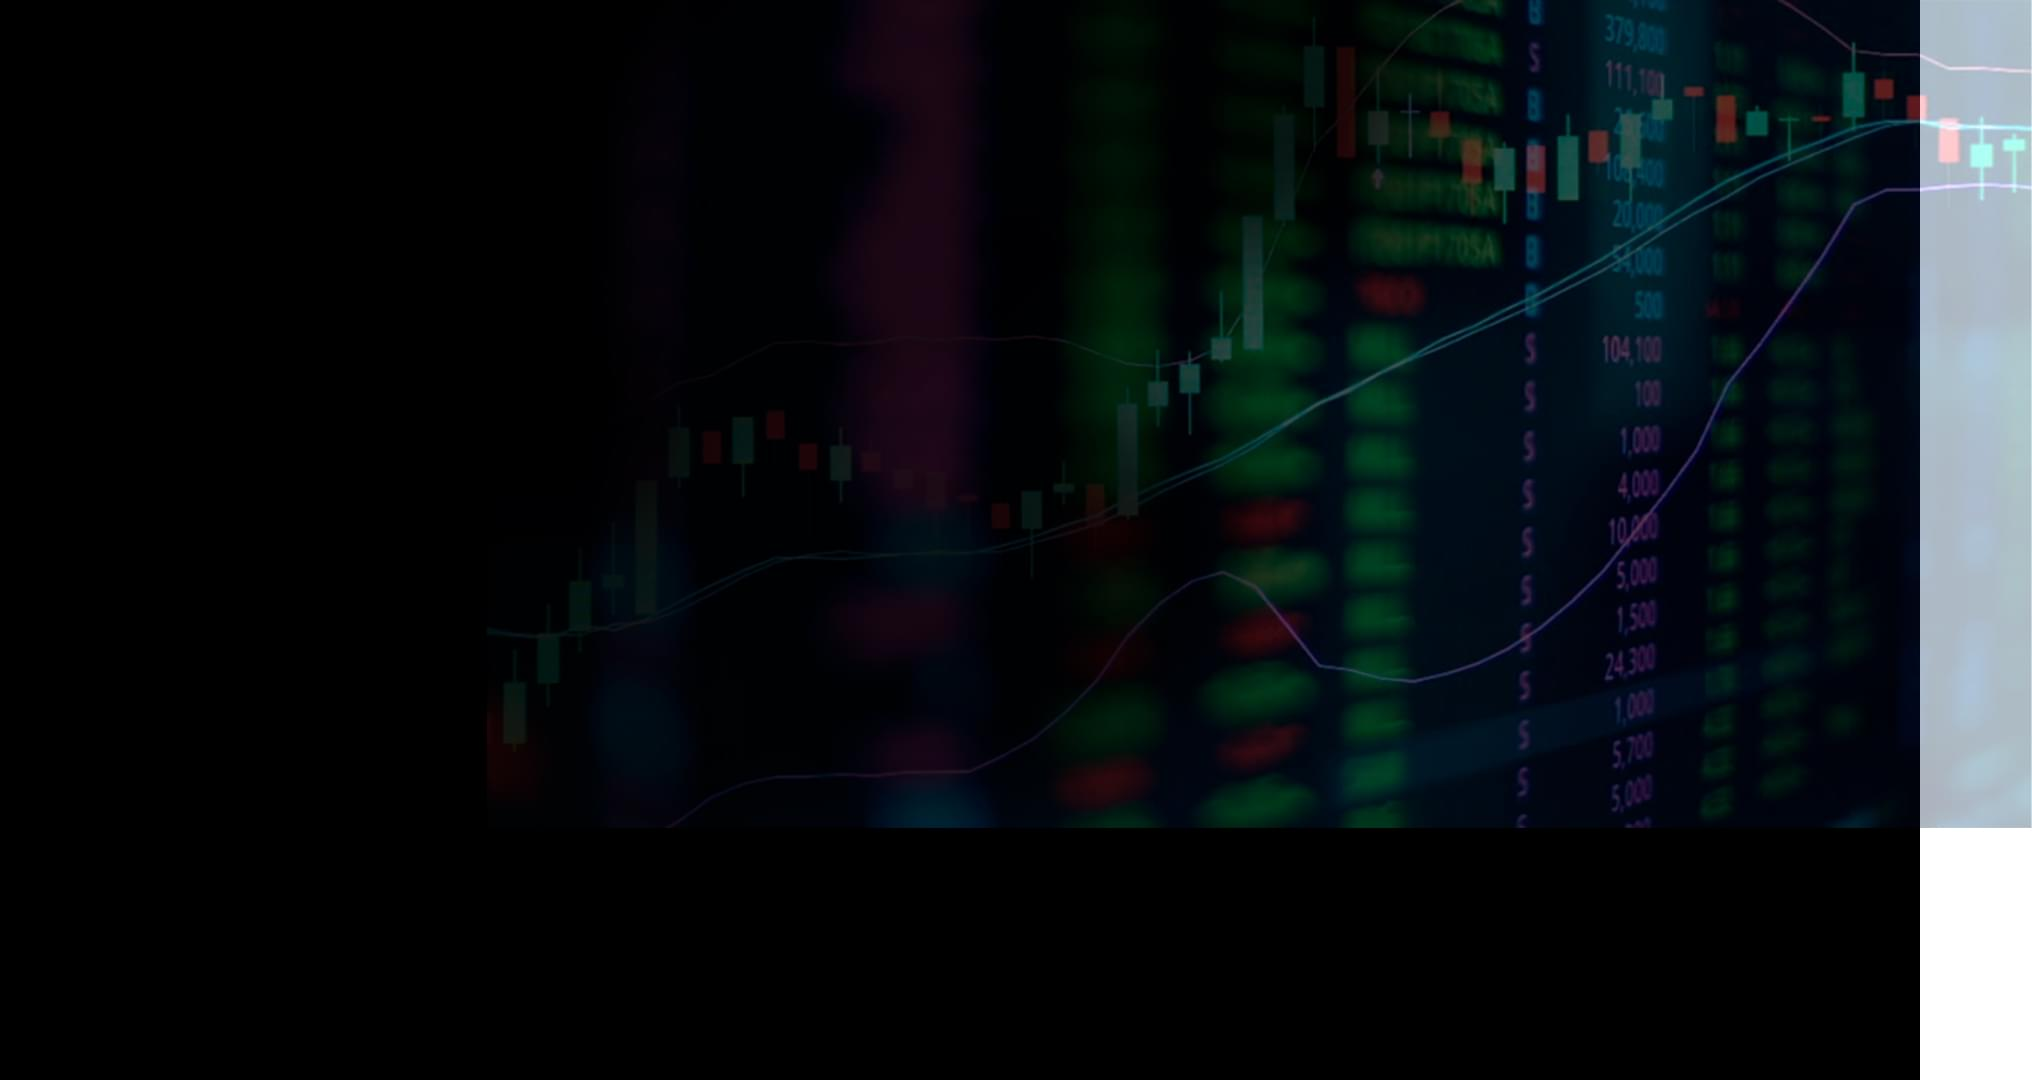
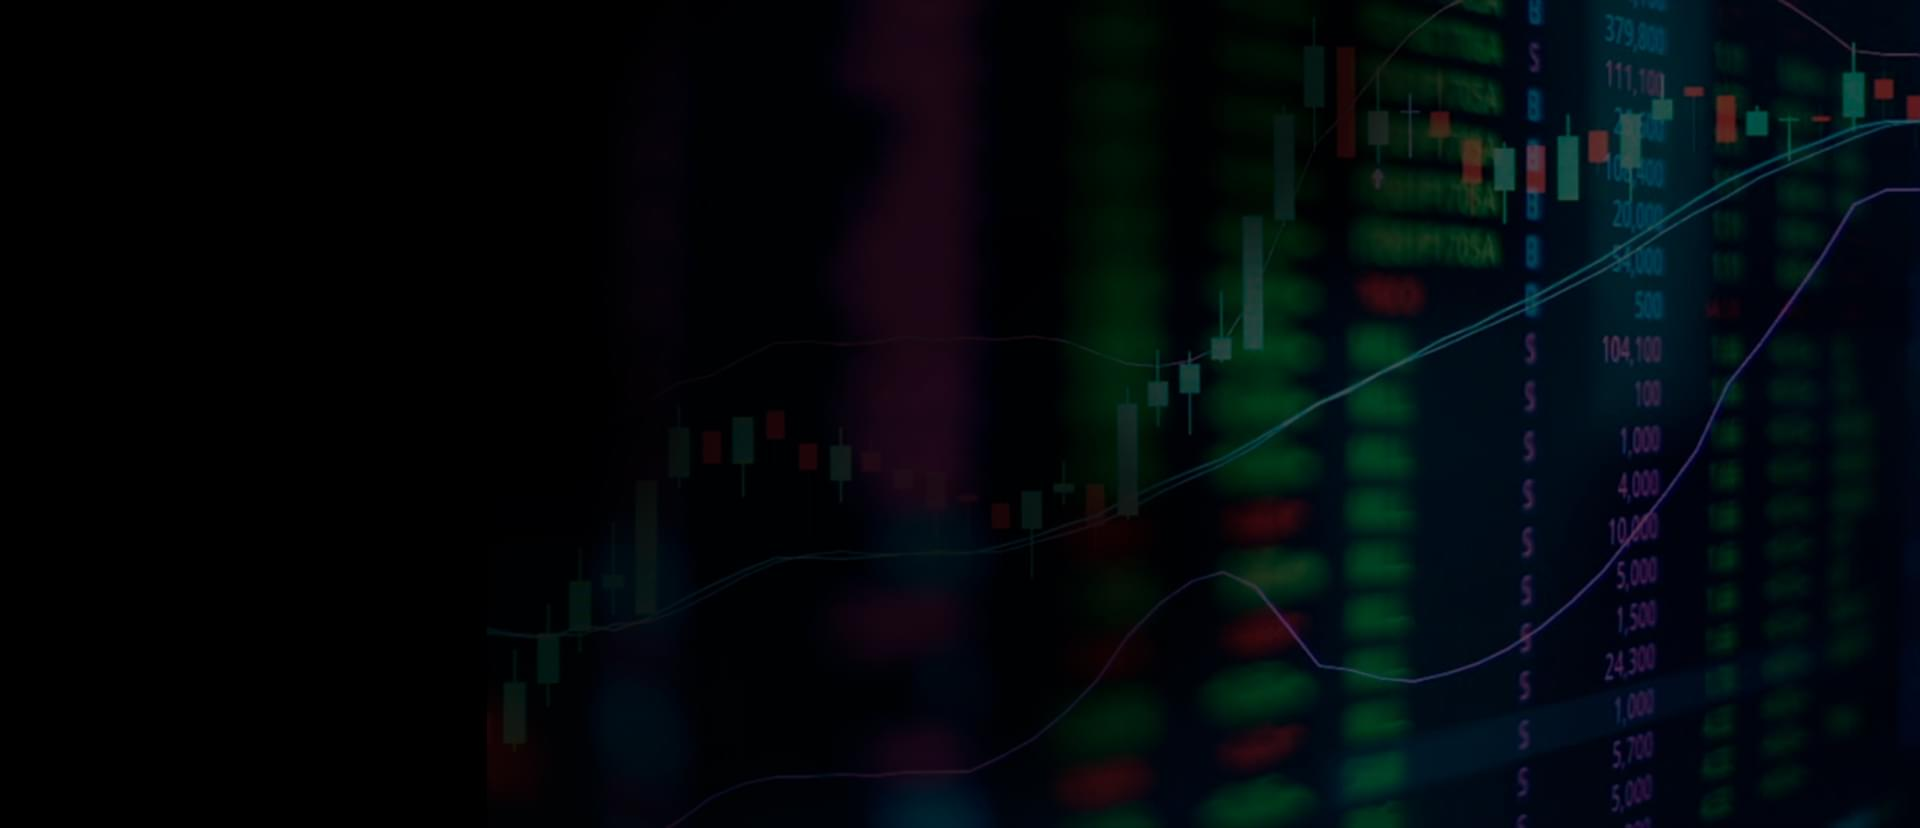
Верстка первого экрана

diff --git a/app/css/app.min.css b/app/css/app.min.css
@@ -1,1 +1,1 @@
-*,::after,::before{-webkit-box-sizing:border-box;box-sizing:border-box}html{font-family:sans-serif;line-height:1.15;-webkit-text-size-adjust:100%;-webkit-tap-highlight-color:transparent}article,aside,figcaption,figure,footer,header,hgroup,main,nav,section{display:block}body{margin:0;font-family:-apple-system,BlinkMacSystemFont,"Segoe UI",Roboto,"Helvetica Neue",Arial,"Noto Sans",sans-serif,"Apple Color Emoji","Segoe UI Emoji","Segoe UI Symbol","Noto Color Emoji";font-size:1rem;font-weight:400;line-height:1.5;color:#212529;text-align:left;background-color:#fff}[tabindex="-1"]:focus:not(:focus-visible){outline:0!important}hr{-webkit-box-sizing:content-box;box-sizing:content-box;height:0;overflow:visible}h1,h2,h3,h4,h5,h6{margin-top:0;margin-bottom:.5rem}p{margin-top:0;margin-bottom:1rem}abbr[data-original-title],abbr[title]{text-decoration:underline;-webkit-text-decoration:underline dotted;text-decoration:underline dotted;cursor:help;border-bottom:0;-webkit-text-decoration-skip-ink:none;text-decoration-skip-ink:none}address{margin-bottom:1rem;font-style:normal;line-height:inherit}dl,ol,ul{margin-top:0;margin-bottom:1rem}ol ol,ol ul,ul ol,ul ul{margin-bottom:0}dt{font-weight:700}dd{margin-bottom:.5rem;margin-left:0}blockquote{margin:0 0 1rem}b,strong{font-weight:bolder}small{font-size:80%}sub,sup{position:relative;font-size:75%;line-height:0;vertical-align:baseline}sub{bottom:-.25em}sup{top:-.5em}a{color:#007bff;text-decoration:none;background-color:transparent}a:hover{color:#0056b3;text-decoration:underline}a:not([href]):not([class]){color:inherit;text-decoration:none}a:not([href]):not([class]):hover{color:inherit;text-decoration:none}code,kbd,pre,samp{font-family:SFMono-Regular,Menlo,Monaco,Consolas,"Liberation Mono","Courier New",monospace;font-size:1em}pre{margin-top:0;margin-bottom:1rem;overflow:auto;-ms-overflow-style:scrollbar}figure{margin:0 0 1rem}img{vertical-align:middle;border-style:none}svg{overflow:hidden;vertical-align:middle}table{border-collapse:collapse}caption{padding-top:.75rem;padding-bottom:.75rem;color:#6c757d;text-align:left;caption-side:bottom}th{text-align:inherit;text-align:-webkit-match-parent}label{display:inline-block;margin-bottom:.5rem}button{border-radius:0}button:focus{outline:1px dotted;outline:5px auto -webkit-focus-ring-color}button,input,optgroup,select,textarea{margin:0;font-family:inherit;font-size:inherit;line-height:inherit}button,input{overflow:visible}button,select{text-transform:none}[role=button]{cursor:pointer}select{word-wrap:normal}[type=button],[type=reset],[type=submit],button{-webkit-appearance:button}[type=button]:not(:disabled),[type=reset]:not(:disabled),[type=submit]:not(:disabled),button:not(:disabled){cursor:pointer}[type=button]::-moz-focus-inner,[type=reset]::-moz-focus-inner,[type=submit]::-moz-focus-inner,button::-moz-focus-inner{padding:0;border-style:none}input[type=checkbox],input[type=radio]{-webkit-box-sizing:border-box;box-sizing:border-box;padding:0}textarea{overflow:auto;resize:vertical}fieldset{min-width:0;padding:0;margin:0;border:0}legend{display:block;width:100%;max-width:100%;padding:0;margin-bottom:.5rem;font-size:1.5rem;line-height:inherit;color:inherit;white-space:normal}progress{vertical-align:baseline}[type=number]::-webkit-inner-spin-button,[type=number]::-webkit-outer-spin-button{height:auto}[type=search]{outline-offset:-2px;-webkit-appearance:none}[type=search]::-webkit-search-decoration{-webkit-appearance:none}::-webkit-file-upload-button{font:inherit;-webkit-appearance:button}output{display:inline-block}summary{display:list-item;cursor:pointer}template{display:none}[hidden]{display:none!important}@font-face{font-family:gilroy;font-style:normal;font-weight:400;src:url(../fonts/Gilroy-Regular.woff2) format("woff2")}@font-face{font-family:gilroy-bold;font-style:normal;font-weight:700;src:url(../fonts/Gilroy-Bold.woff2) format("woff2")}@font-face{font-family:gilroy;font-style:normal;font-weight:800;src:url(../fonts/Gilroy-ExtraBold.woff2) format("woff2")}@font-face{font-family:gilroy;font-style:normal;font-weight:900;src:url(../fonts/Gilroy-Black.woff2) format("woff2")}::-webkit-input-placeholder{color:#666}::-moz-placeholder{color:#666}:-ms-input-placeholder{color:#666}::-ms-input-placeholder{color:#666}::placeholder{color:#666}::-moz-selection{background-color:#ffc600;color:#fff}::selection{background-color:#ffc600;color:#fff}input,textarea{outline:0}input:focus:required:invalid,textarea:focus:required:invalid{border-color:red}input:required:valid,textarea:required:valid{border-color:green}body{font-size:16px;min-width:320px;position:relative;line-height:1.65;font-family:gilroy,sans-serif;overflow-x:hidden;color:#fff}.container{max-width:1140px;margin:0 auto}
+*,::after,::before{-webkit-box-sizing:border-box;box-sizing:border-box}html{font-family:sans-serif;line-height:1.15;-webkit-text-size-adjust:100%;-webkit-tap-highlight-color:transparent}article,aside,figcaption,figure,footer,header,hgroup,main,nav,section{display:block}body{margin:0;font-family:-apple-system,BlinkMacSystemFont,"Segoe UI",Roboto,"Helvetica Neue",Arial,"Noto Sans",sans-serif,"Apple Color Emoji","Segoe UI Emoji","Segoe UI Symbol","Noto Color Emoji";font-size:1rem;font-weight:400;line-height:1.5;color:#212529;text-align:left;background-color:#fff}[tabindex="-1"]:focus:not(:focus-visible){outline:0!important}hr{-webkit-box-sizing:content-box;box-sizing:content-box;height:0;overflow:visible}h1,h2,h3,h4,h5,h6{margin-top:0;margin-bottom:.5rem}p{margin-top:0;margin-bottom:1rem}abbr[data-original-title],abbr[title]{text-decoration:underline;-webkit-text-decoration:underline dotted;text-decoration:underline dotted;cursor:help;border-bottom:0;-webkit-text-decoration-skip-ink:none;text-decoration-skip-ink:none}address{margin-bottom:1rem;font-style:normal;line-height:inherit}dl,ol,ul{margin-top:0;margin-bottom:1rem}ol ol,ol ul,ul ol,ul ul{margin-bottom:0}dt{font-weight:700}dd{margin-bottom:.5rem;margin-left:0}blockquote{margin:0 0 1rem}b,strong{font-weight:bolder}small{font-size:80%}sub,sup{position:relative;font-size:75%;line-height:0;vertical-align:baseline}sub{bottom:-.25em}sup{top:-.5em}a{color:#007bff;text-decoration:none;background-color:transparent}a:hover{color:#0056b3;text-decoration:underline}a:not([href]):not([class]){color:inherit;text-decoration:none}a:not([href]):not([class]):hover{color:inherit;text-decoration:none}code,kbd,pre,samp{font-family:SFMono-Regular,Menlo,Monaco,Consolas,"Liberation Mono","Courier New",monospace;font-size:1em}pre{margin-top:0;margin-bottom:1rem;overflow:auto;-ms-overflow-style:scrollbar}figure{margin:0 0 1rem}img{vertical-align:middle;border-style:none}svg{overflow:hidden;vertical-align:middle}table{border-collapse:collapse}caption{padding-top:.75rem;padding-bottom:.75rem;color:#6c757d;text-align:left;caption-side:bottom}th{text-align:inherit;text-align:-webkit-match-parent}label{display:inline-block;margin-bottom:.5rem}button{border-radius:0}button:focus{outline:1px dotted;outline:5px auto -webkit-focus-ring-color}button,input,optgroup,select,textarea{margin:0;font-family:inherit;font-size:inherit;line-height:inherit}button,input{overflow:visible}button,select{text-transform:none}[role=button]{cursor:pointer}select{word-wrap:normal}[type=button],[type=reset],[type=submit],button{-webkit-appearance:button}[type=button]:not(:disabled),[type=reset]:not(:disabled),[type=submit]:not(:disabled),button:not(:disabled){cursor:pointer}[type=button]::-moz-focus-inner,[type=reset]::-moz-focus-inner,[type=submit]::-moz-focus-inner,button::-moz-focus-inner{padding:0;border-style:none}input[type=checkbox],input[type=radio]{-webkit-box-sizing:border-box;box-sizing:border-box;padding:0}textarea{overflow:auto;resize:vertical}fieldset{min-width:0;padding:0;margin:0;border:0}legend{display:block;width:100%;max-width:100%;padding:0;margin-bottom:.5rem;font-size:1.5rem;line-height:inherit;color:inherit;white-space:normal}progress{vertical-align:baseline}[type=number]::-webkit-inner-spin-button,[type=number]::-webkit-outer-spin-button{height:auto}[type=search]{outline-offset:-2px;-webkit-appearance:none}[type=search]::-webkit-search-decoration{-webkit-appearance:none}::-webkit-file-upload-button{font:inherit;-webkit-appearance:button}output{display:inline-block}summary{display:list-item;cursor:pointer}template{display:none}[hidden]{display:none!important}@font-face{font-family:gilroy;font-style:normal;font-weight:400;src:url(../fonts/Gilroy-Regular.woff2) format("woff2")}@font-face{font-family:gilroy-bold;font-style:normal;font-weight:700;src:url(../fonts/Gilroy-Bold.woff2) format("woff2")}@font-face{font-family:gilroy;font-style:normal;font-weight:800;src:url(../fonts/Gilroy-ExtraBold.woff2) format("woff2")}@font-face{font-family:gilroy;font-style:normal;font-weight:900;src:url(../fonts/Gilroy-Black.woff2) format("woff2")}::-webkit-input-placeholder{color:#666}::-moz-placeholder{color:#666}:-ms-input-placeholder{color:#666}::-ms-input-placeholder{color:#666}::placeholder{color:#666}::-moz-selection{background-color:#ffc600;color:#fff}::selection{background-color:#ffc600;color:#fff}input,textarea{outline:0}input:focus:required:invalid,textarea:focus:required:invalid{border-color:red}input:required:valid,textarea:required:valid{border-color:green}body{font-size:16px;min-width:320px;position:relative;line-height:1.65;font-family:gilroy,sans-serif;overflow-x:hidden;color:#fff}.container{max-width:1140px;margin:0 auto}.main{background:url(../images/dest/main-bg.jpg) center no-repeat;background-size:cover;padding-top:165px;padding-bottom:200px;overflow:hidden}.main__content{display:-webkit-box;display:-ms-flexbox;display:flex;-webkit-box-pack:justify;-ms-flex-pack:justify;justify-content:space-between;-webkit-box-align:center;-ms-flex-align:center;align-items:center}.description__title{color:#ffc600;font-size:56px;font-weight:900;line-height:1.2}.description__title::after{content:'';display:block;width:115px;height:5px;background-color:#fff;margin-top:30px}.description__subtitle{font-weight:900;font-size:36px;margin-top:30px;line-height:1}.included{display:-webkit-box;display:-ms-flexbox;display:flex;-webkit-box-pack:justify;-ms-flex-pack:justify;justify-content:space-between;margin-top:60px}.included__list{list-style:none;padding:0;margin:0}.included__item{display:-webkit-box;display:-ms-flexbox;display:flex;-webkit-box-align:center;-ms-flex-align:center;align-items:center}.included__item::before{content:'';display:block;background:url(../images/dest/plus.png) center no-repeat;width:48px;height:48px;margin-right:10px}.play{position:relative;cursor:pointer}.play__wrapp{position:relative;width:193px;height:193px}.play__pulse{width:193px;height:193px;border:1px solid #ffc600;-webkit-animation:border-pulse 3s infinite;animation:border-pulse 3s infinite;border-radius:50%;position:absolute;top:0;left:0}.play__btn{display:block;width:193px;height:193px;background:url(../images/dest/play.png) center no-repeat;position:absolute;top:0;left:0}.play__author{position:absolute;top:-120px;left:-350px}.btn{display:block;font-weight:900;color:#000;width:270px;padding:25px 0;background-color:#ffc600;border-radius:32.5px;line-height:1;text-align:center;text-transform:uppercase;position:relative;-webkit-box-shadow:0 0 9.75px 3.25px rgba(255,197,0,.65);box-shadow:0 0 9.75px 3.25px rgba(255,197,0,.65);margin-top:60px}.btn:hover{text-decoration:none;color:#000}.btn::after{content:'';display:block;position:absolute;width:100%;height:100%;-webkit-box-shadow:0 3px 0 #ff9600;box-shadow:0 3px 0 #ff9600;border-radius:32.5px;top:0;left:0}@-webkit-keyframes border-pulse{0%{-webkit-transform:scale(1);transform:scale(1);opacity:.3}100%{-webkit-transform:scale(2);transform:scale(2);opacity:0}}@keyframes border-pulse{0%{-webkit-transform:scale(1);transform:scale(1);opacity:.3}100%{-webkit-transform:scale(2);transform:scale(2);opacity:0}}

diff --git a/app/scss/main.scss b/app/scss/main.scss
@@ -1,3 +1,143 @@
 @import "config";
 
-// CUSTOM USER STYLES & IMPORTSont-weight: 900;
+
+// ? Main BLOCK
+.main {
+	background: url(../images/dest/main-bg.jpg) center no-repeat;
+	background-size: cover;
+	padding-top: 165px;
+	padding-bottom: 200px;
+	overflow: hidden;
+	&__content {
+		display: flex;
+		justify-content: space-between;
+		align-items: center;
+	}
+}
+.description {
+
+	&__title {
+		color: $accent;
+		font-size: 56px;
+		font-weight: 900;
+		line-height: 1.2;
+		&::after {
+			content: '';
+			display: block;
+			width: 115px;
+			height: 5px;
+			background-color: #ffffff;
+			margin-top: 30px;
+		}
+	}
+
+	&__subtitle {
+		font-weight: 900;
+		font-size: 36px;
+		margin-top: 30px;
+		line-height: 1;
+	}
+}
+.included {
+	display: flex;
+	justify-content: space-between;
+	margin-top: 60px;
+	&__list {
+		list-style: none;
+		padding: 0;
+		margin: 0;
+	}
+	&__item {
+		display: flex;
+		align-items: center;
+		&::before {
+			content: '';
+			display: block;
+			background: url(../images/dest/plus.png) center no-repeat;
+			width: 48px;
+			height: 48px;
+			margin-right: 10px;
+		}
+	}
+}
+.play {
+	position: relative;
+	cursor: pointer;
+	&__wrapp {
+		position: relative;
+		width: 193px;
+		height: 193px;
+	}
+	&__pulse {
+		width: 193px;
+		height: 193px;
+		border: 1px solid $accent;
+		animation: border-pulse 3s infinite;
+		border-radius: 50%;
+		position: absolute;
+		top: 0;
+		left: 0;
+	}
+	&__btn {
+		display: block;
+		width: 193px;
+		height: 193px;
+		background: url(../images/dest/play.png) center no-repeat;
+		position: absolute;
+		top: 0;
+		left: 0;
+	}
+	&__author {
+		position: absolute;
+		top: -120px;
+		left: -350px;
+		// // width: 100%;
+		// img {
+		// 	width: 95%;
+		// }
+	}
+}
+
+.btn {
+	display: block;
+	font-weight: 900;
+	color: #000000;
+	width: 270px;
+	padding: 25px 0;
+	background-color: $accent;
+	border-radius: 32.5px;
+	line-height: 1;
+	text-align: center;
+	text-transform: uppercase;
+	position: relative;
+	box-shadow: 0px 0px 9.75px 3.25px rgba(255, 197, 0, 0.65);
+	margin-top: 60px;
+	&:hover {
+		text-decoration: none;
+		color: #000;
+	}
+	&::after {
+		content: '';
+		display: block;
+		position: absolute;
+		width: 100%;
+		height: 100%;
+		box-shadow: 0px 3px 0px #ff9600;
+		border-radius: 32.5px;
+		top: 0;
+		left: 0;
+	}
+}
+
+@keyframes border-pulse {
+	0% {
+	transform: scale(1);
+	opacity: .3;
+	
+	}
+	100% {
+		transform: scale(2);
+		opacity: 0;
+	}
+}
+

diff --git a/app/index.html b/app/index.html
@@ -16,7 +16,42 @@
 <body>
 
 	<!-- CUSTOM HTML -->
-
+	<div class="main">
+		<div class="container">
+			<div class="main__content">
+				<div class="description">
+					<h1 class="description__title">
+						ГРАМОТНЫЕ <br> ИНВЕСТИЦИИ
+					</h1>
+					<p class="description__subtitle">Авторский курс Артема Ивина</p>
+					<div class="included">
+						<ul class="included__list">
+							<li class="included__item">7 индивидуальных занятий</li>
+							<li class="included__item">Более 6 лет опыта на торгах</li>
+						</ul>
+						<ul class="included__list">
+							<li class="included__item">Живой вебинар с автором курса</li>
+							<li class="included__item">Увеличь свой доход +100%</li>
+						</ul>
+					</div>
+				</div>
+				<div class="play">
+					<div class="play__wrapp">
+						<div class="play__border"></div>
+						<div class="play__pulse"></div>
+						
+						<a href="#" class="play__btn"></a>
+					</div>
+					<div class="play__author">
+						<img src="images/dest/artem.png" alt="author">
+					</div>
+					
+				</div>
+			</div>
+			<a href="#" class="btn">Записаться на курс</a>
+		</div>
+	</div>
+	<!-- /.main -->
 	
 
 	<script src="js/app.min.js"></script>
